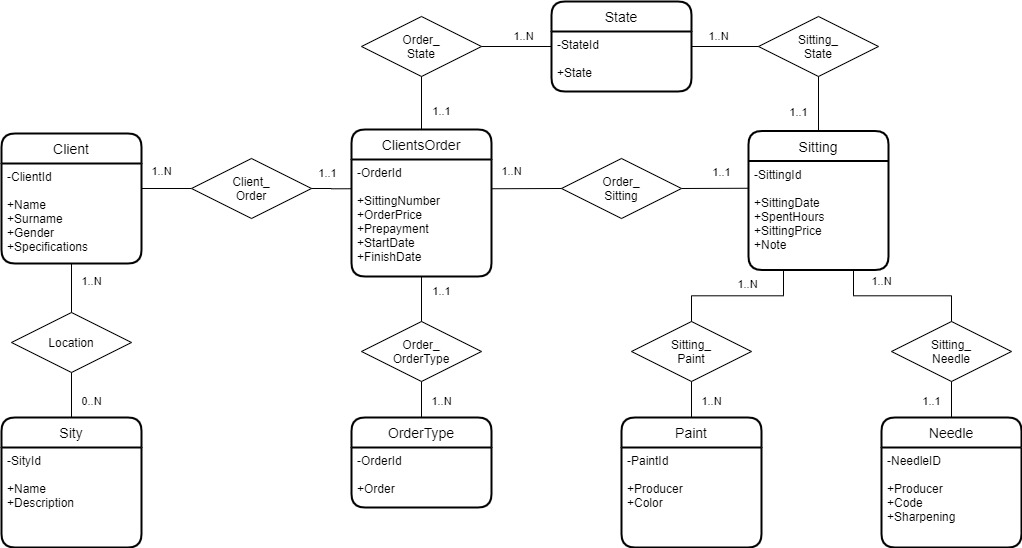
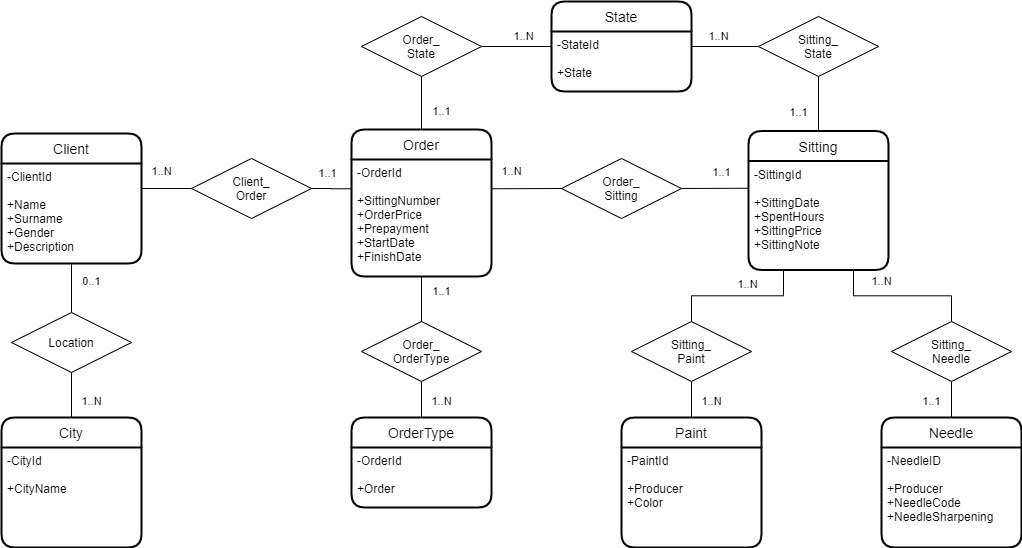
Created models for entities

diff --git a/src/main/java/com/maxtattoo/model/enums/State.java b/src/main/java/com/maxtattoo/model/enums/State.java
@@ -1,0 +1,27 @@
+package com.maxtattoo.model.enums;
+
+import lombok.AllArgsConstructor;
+import lombok.Getter;
+
+import java.util.Arrays;
+import java.util.Objects;
+import java.util.Optional;
+
+@Getter
+@AllArgsConstructor
+public enum State {
+
+    REVIEW("Review"),
+    IN_PROGRESS("In Progress"),
+    FINISHED("Finished");
+
+    private final String value;
+
+    public static State findByValue(String value){
+        return Optional.ofNullable(value).
+                flatMap(v -> Arrays.stream(values())
+                        .filter(el -> Objects.equals(v, el.getValue()))
+                        .findFirst()
+                ).orElseThrow(() -> new IllegalArgumentException("Received unexpected State: "+value+"!"));
+    }
+}

diff --git a/src/main/java/com/maxtattoo/model/enums/OrderType.java b/src/main/java/com/maxtattoo/model/enums/OrderType.java
@@ -1,0 +1,26 @@
+package com.maxtattoo.model.enums;
+
+import lombok.AllArgsConstructor;
+import lombok.Getter;
+
+import java.util.Arrays;
+import java.util.Objects;
+import java.util.Optional;
+
+@Getter
+@AllArgsConstructor
+public enum OrderType {
+
+    TATTOO("Tattoo"),
+    PERMANENT_MAKEUP("Permanent makeup");
+
+    private final String value;
+
+    public static OrderType findByValue(String value){
+        return Optional.ofNullable(value).
+                flatMap(v -> Arrays.stream(values())
+                        .filter(el -> Objects.equals(v, el.getValue()))
+                        .findFirst()
+                ).orElseThrow(() -> new IllegalArgumentException("Received unexpected OrderType: "+value+"!"));
+    }
+}

diff --git a/src/main/java/com/maxtattoo/model/enums/City.java b/src/main/java/com/maxtattoo/model/enums/City.java
@@ -1,0 +1,27 @@
+package com.maxtattoo.model.enums;
+
+import lombok.AllArgsConstructor;
+import lombok.Getter;
+
+import java.util.Arrays;
+import java.util.Objects;
+import java.util.Optional;
+
+@Getter
+@AllArgsConstructor
+public enum City {
+
+    VARESE("Varese"),
+    GALLARATE("Gallarate"),
+    MILANO("Milano");
+
+    private final String value;
+
+    public static City findByValue(String value){
+        return Optional.ofNullable(value).
+                flatMap(v -> Arrays.stream(values())
+                        .filter(el -> Objects.equals(v, el.getValue()))
+                        .findFirst()
+                ).orElseThrow(() -> new IllegalArgumentException("Received unexpected City: "+value+"!"));
+    }
+}

diff --git a/src/main/java/com/maxtattoo/model/OrderModel.java b/src/main/java/com/maxtattoo/model/OrderModel.java
@@ -1,0 +1,28 @@
+package com.maxtattoo.model;
+
+import com.maxtattoo.model.enums.OrderType;
+import com.maxtattoo.model.enums.State;
+import lombok.*;
+import java.sql.Date;
+import java.util.ArrayList;
+import java.util.List;
+
+@Data
+@NoArgsConstructor
+@AllArgsConstructor
+@ToString
+@EqualsAndHashCode
+public class OrderModel {
+
+    private Long orderId;
+    private int sittingNumber;
+    private int orderPrice;
+    private int prepayment;
+    private Date startDate;
+    private Date endDate;
+
+    private OrderType orderType;
+    private State state;
+    private List<SittingModel> sittings = new ArrayList<>();
+
+}

diff --git a/src/main/java/com/maxtattoo/model/SittingModel.java b/src/main/java/com/maxtattoo/model/SittingModel.java
@@ -1,0 +1,26 @@
+package com.maxtattoo.model;
+
+import com.maxtattoo.model.enums.State;
+import lombok.*;
+import java.sql.Timestamp;
+import java.util.ArrayList;
+import java.util.List;
+
+@Data
+@NoArgsConstructor
+@AllArgsConstructor
+@ToString
+@EqualsAndHashCode
+public class SittingModel {
+
+    private Long sittingId;
+    private Timestamp sittingDate;
+    private double spentHours;
+    private int sittingPrice;
+    private String sittingNote;
+
+    private State state;
+    private List<PaintModel> paints = new ArrayList<>();
+    private List<NeedleModel> needles = new ArrayList<>();
+
+}

diff --git a/src/main/java/com/maxtattoo/database/entity/Sitting.java b/src/main/java/com/maxtattoo/database/entity/Sitting.java
@@ -6,8 +6,7 @@ import lombok.NoArgsConstructor;
 import lombok.ToString;
 
 import javax.persistence.*;
-import javax.validation.constraints.NotNull;
-import java.sql.Date;
+import java.sql.Timestamp;
 
 @Data
 @ToString
@@ -21,8 +20,8 @@ public class Sitting implements BaseEntity{
     @Column(name = "sittingId")
     @GeneratedValue(strategy = GenerationType.IDENTITY)
     private Long sittingId;
-    @Column @NotNull
-    private Date sittingDate;
+    @Column
+    private Timestamp sittingDate;
     @Column
     private double spentHours;
     @Column

diff --git a/src/main/java/com/maxtattoo/model/ClientModel.java b/src/main/java/com/maxtattoo/model/ClientModel.java
@@ -1,0 +1,23 @@
+package com.maxtattoo.model;
+
+import lombok.*;
+
+import java.util.ArrayList;
+import java.util.List;
+
+@Data
+@NoArgsConstructor
+@AllArgsConstructor
+@ToString
+@EqualsAndHashCode
+public class ClientModel implements GenericModel {
+
+    private Long clientId;
+    private String name;
+    private String surname;
+    private String gender;
+    private String description;
+
+    private LocationModel location;
+    private List<OrderModel> orders = new ArrayList<>();
+}

diff --git a/src/main/java/com/maxtattoo/model/LocationModel.java b/src/main/java/com/maxtattoo/model/LocationModel.java
@@ -1,0 +1,21 @@
+package com.maxtattoo.model;
+
+import com.maxtattoo.model.enums.City;
+import lombok.*;
+
+import java.util.ArrayList;
+import java.util.List;
+
+@Data
+@NoArgsConstructor
+@AllArgsConstructor
+@ToString
+@EqualsAndHashCode
+public class LocationModel {
+    //TODO da specificare i dettagli
+
+    private Long locationId;
+    private String description;
+    private List<City> name = new ArrayList<>();
+
+}

diff --git a/src/main/java/com/maxtattoo/model/NeedleModel.java b/src/main/java/com/maxtattoo/model/NeedleModel.java
@@ -1,0 +1,17 @@
+package com.maxtattoo.model;
+
+import lombok.*;
+
+@Data
+@NoArgsConstructor
+@AllArgsConstructor
+@ToString
+@EqualsAndHashCode
+public class NeedleModel {
+
+    private Long needleId;
+    private String producer;
+    private String needleCode;
+    private String needleSharpening;
+
+}

diff --git a/src/main/java/com/maxtattoo/model/PaintModel.java b/src/main/java/com/maxtattoo/model/PaintModel.java
@@ -1,0 +1,16 @@
+package com.maxtattoo.model;
+
+import lombok.*;
+
+@Data
+@NoArgsConstructor
+@AllArgsConstructor
+@ToString
+@EqualsAndHashCode
+public class PaintModel {
+
+    private Long paintId;
+    private String producer;
+    private String color;
+
+}

diff --git a/src/main/java/com/maxtattoo/utils/Utils.java b/src/main/java/com/maxtattoo/utils/Utils.java
@@ -1,4 +1,7 @@
 package com.maxtattoo.utils;
 
+import lombok.experimental.UtilityClass;
+
+@UtilityClass
 public class Utils {
 }

diff --git a/src/main/java/com/maxtattoo/service/GenericService.java b/src/main/java/com/maxtattoo/service/GenericService.java
@@ -1,4 +1,4 @@
 package com.maxtattoo.service;
 
-public interface BaseService {
+public interface GenericService {
 }
